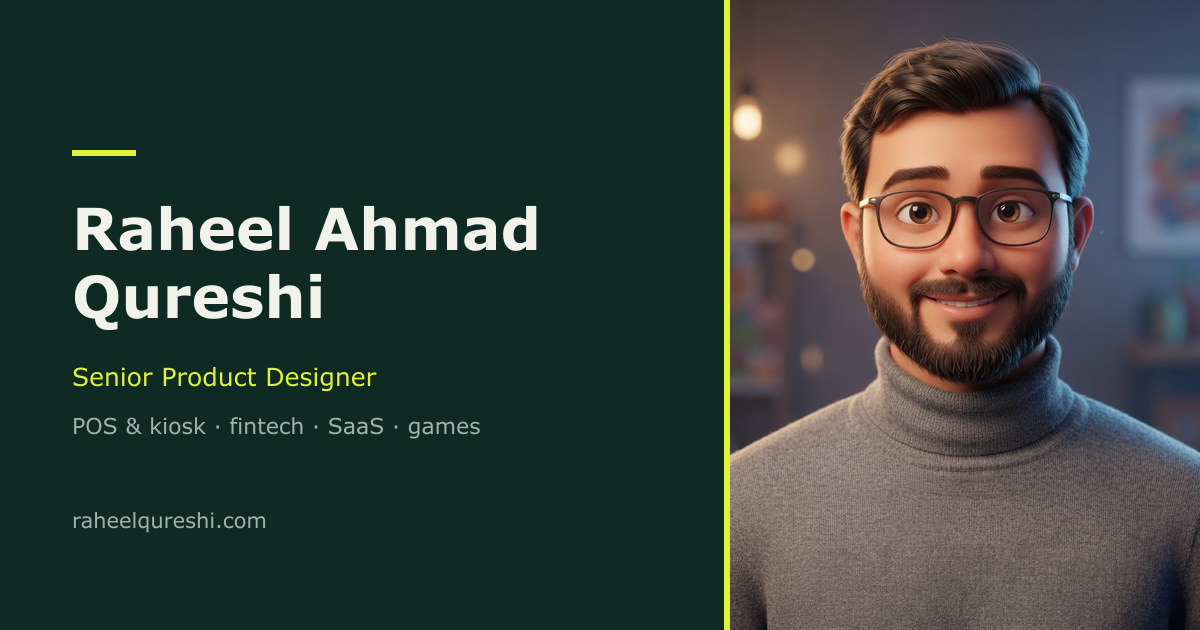
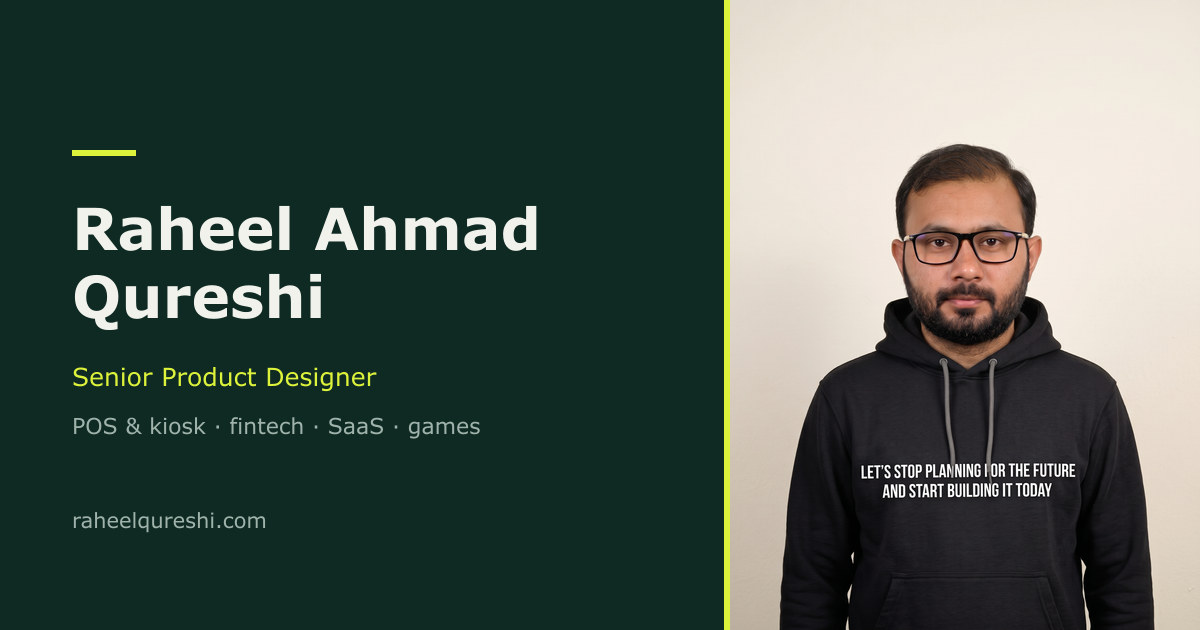
feat(portrait): swap in the supplied photograph
Third portrait, and the first real photograph: a headshot against a plain
wall, replacing the rendered character. Raheel removed the old source, so
build-portrait.mts now points at Images/Profile Pic 2.jpg.

It is used whole rather than keyed out. The wall is plain enough that a matte
was tempting, but real hair against a soft-edged background mattes badly and a
bad cutout looks worse than an honest photograph — and on light the wall tone
sits within a shade of the site's paper anyway.

The crop rule flips with it. The old source sat high with the sweater running
off the bottom edge, so two thirds of the 3:4 → 4:5 excess came off the bottom.
This frame has the dead space above the head and lettering across the hoodie
that runs to the bottom edge, so the 160 rows now come off the top.

One asset, three places: the home hero, /about, and the social card, plus the
Person.image in the JSON-LD graph — all read /images/portrait.webp, so nothing
else needed touching.

Verified locally in both themes: hero and /about render it, console clean on
both pages, 17 unit tests, lint and typecheck pass.

diff --git a/docs/11-content-request.md b/docs/11-content-request.md
@@ -7,7 +7,7 @@ Placeholders in the code are tagged `[CONFIRM]` (a number I drafted) or `[NEEDED
 
 | # | Asset | Path | Spec |
 |---|---|---|---|
-| 1 | ~~Portrait~~ **delivered 2026-09-08** | `Images/RAQ portrait.jpg` → `public/images/portrait.webp` | Supplied as an illustration on a white ground; `scripts/build-portrait.mts` keys the ground out and frames it 4:5, so the frame surface shows through in both themes |
+| 1 | ~~Portrait~~ **delivered, replaced 2026-09-25** | `Images/Profile Pic 2.jpg` → `public/images/portrait.webp` | Third version, and the first real photograph: a headshot against a plain wall, used whole and cropped 3:4 → 4:5 off the empty wall above the head. The two earlier files (an illustration, then a rendered character) are superseded |
 | 2 | Compass POS cover | `public/work/compass-pos/cover.jpg` | 1600 × 1000, the terminal or kiosk in context |
 | 3 | Compass screens | `public/work/compass-pos/01.jpg … 12.jpg` | Order screen, modifiers, payment/tipping, offline banner, KDS, kiosk attract/order/pay, Bridge admin (live sales, AI reports, employee time) |
 | 4 | Compass hardware photos | `public/work/compass-pos/hardware-*.jpg` | Terminal + kiosk photos for the device frames (`kind="pos"` / `"kiosk"`) |
